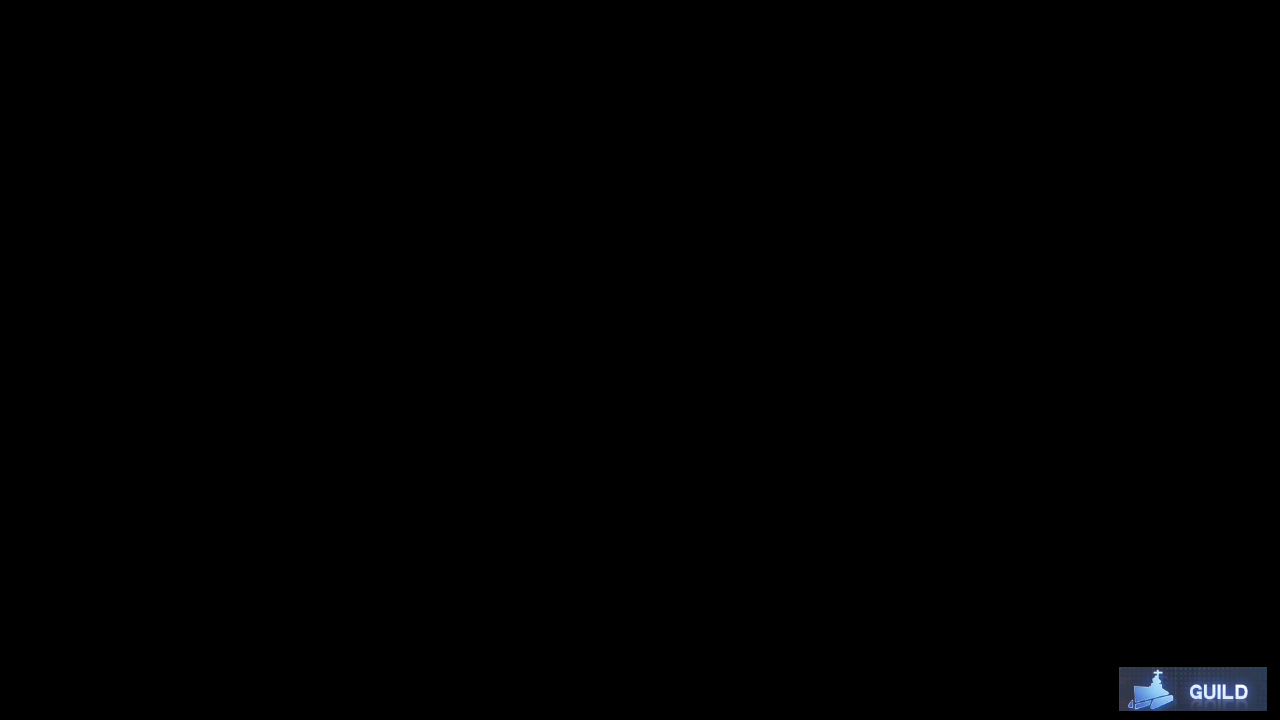
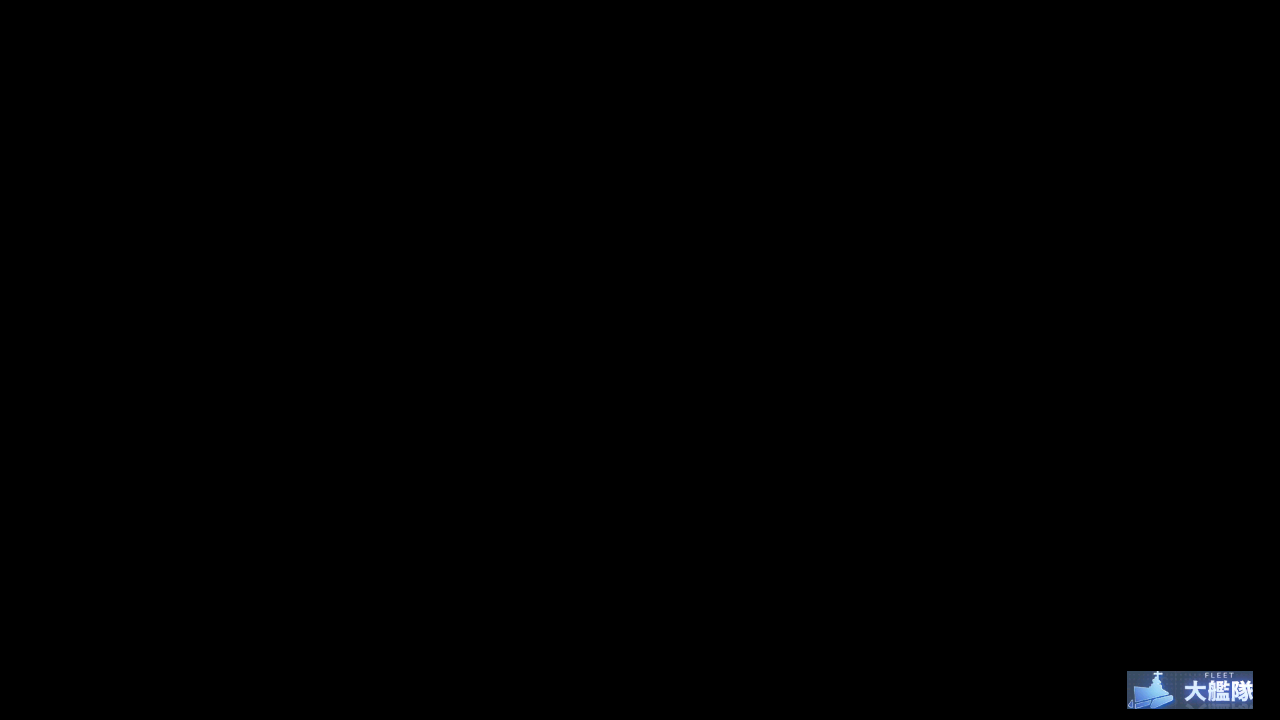
update jp ui assets

Changed region(s): [[0.875, 0.9167, 1.0, 1.0]]

diff --git a/module/ui/assets.py b/module/ui/assets.py
@@ -33,12 +33,12 @@ EVENT_LIST_CHECK = Button(area={'cn': (123, 15, 232, 39), 'en': (123, 15, 223, 3
 EXERCISE_CHECK = Button(area={'cn': (1065, 340, 1204, 382), 'en': (1078, 343, 1190, 382), 'jp': (1063, 339, 1205, 382), 'tw': (1065, 340, 1204, 382)}, color={'cn': (129, 166, 220), 'en': (138, 174, 225), 'jp': (130, 165, 219), 'tw': (129, 166, 220)}, button={'cn': (1065, 340, 1204, 382), 'en': (1078, 343, 1190, 382), 'jp': (1063, 339, 1205, 382), 'tw': (1065, 340, 1204, 382)}, file={'cn': './assets/cn/ui/EXERCISE_CHECK.png', 'en': './assets/en/ui/EXERCISE_CHECK.png', 'jp': './assets/jp/ui/EXERCISE_CHECK.png', 'tw': './assets/tw/ui/EXERCISE_CHECK.png'})
 FLEET_CHECK = Button(area={'cn': (1044, 641, 1243, 702), 'en': (1042, 640, 1244, 703), 'jp': (1042, 606, 1239, 666), 'tw': (1044, 641, 1243, 702)}, color={'cn': (237, 186, 112), 'en': (236, 187, 113), 'jp': (235, 181, 100), 'tw': (237, 186, 112)}, button={'cn': (1044, 641, 1243, 702), 'en': (1042, 640, 1244, 703), 'jp': (1042, 606, 1239, 666), 'tw': (1044, 641, 1243, 702)}, file={'cn': './assets/cn/ui/FLEET_CHECK.png', 'en': './assets/en/ui/FLEET_CHECK.png', 'jp': './assets/jp/ui/FLEET_CHECK.png', 'tw': './assets/tw/ui/FLEET_CHECK.png'})
 GOTO_MAIN = Button(area={'cn': (1230, 17, 1253, 45), 'en': (1230, 17, 1253, 45), 'jp': (1216, 25, 1241, 45), 'tw': (1230, 17, 1253, 45)}, color={'cn': (112, 132, 159), 'en': (112, 132, 159), 'jp': (129, 150, 178), 'tw': (112, 132, 159)}, button={'cn': (1228, 18, 1255, 49), 'en': (1228, 18, 1255, 49), 'jp': (1228, 18, 1255, 49), 'tw': (1228, 18, 1255, 49)}, file={'cn': './assets/cn/ui/GOTO_MAIN.png', 'en': './assets/en/ui/GOTO_MAIN.png', 'jp': './assets/jp/ui/GOTO_MAIN.png', 'tw': './assets/tw/ui/GOTO_MAIN.png'})
-GUILD_CHECK = Button(area={'cn': (121, 15, 199, 39), 'en': (121, 15, 196, 39), 'jp': (121, 15, 196, 39), 'tw': (121, 15, 196, 39)}, color={'cn': (145, 159, 195), 'en': (116, 129, 167), 'jp': (116, 129, 167), 'tw': (116, 129, 167)}, button={'cn': (121, 15, 199, 39), 'en': (121, 15, 196, 39), 'jp': (121, 15, 196, 39), 'tw': (121, 15, 196, 39)}, file={'cn': './assets/cn/ui/GUILD_CHECK.png', 'en': './assets/en/ui/GUILD_CHECK.png', 'jp': './assets/jp/ui/GUILD_CHECK.png', 'tw': './assets/tw/ui/GUILD_CHECK.png'})
+GUILD_CHECK = Button(area={'cn': (121, 15, 199, 39), 'en': (121, 15, 196, 39), 'jp': (120, 14, 201, 41), 'tw': (121, 15, 196, 39)}, color={'cn': (145, 159, 195), 'en': (116, 129, 167), 'jp': (142, 155, 190), 'tw': (116, 129, 167)}, button={'cn': (121, 15, 199, 39), 'en': (121, 15, 196, 39), 'jp': (120, 14, 201, 41), 'tw': (121, 15, 196, 39)}, file={'cn': './assets/cn/ui/GUILD_CHECK.png', 'en': './assets/en/ui/GUILD_CHECK.png', 'jp': './assets/jp/ui/GUILD_CHECK.png', 'tw': './assets/tw/ui/GUILD_CHECK.png'})
 MAIN_GOTO_CAMPAIGN = Button(area={'cn': (1008, 289, 1154, 435), 'en': (1013, 298, 1148, 363), 'jp': (1006, 288, 1155, 436), 'tw': (1008, 289, 1154, 435)}, color={'cn': (216, 171, 99), 'en': (234, 198, 121), 'jp': (216, 171, 100), 'tw': (216, 171, 99)}, button={'cn': (1008, 289, 1154, 435), 'en': (1013, 298, 1148, 363), 'jp': (1006, 288, 1155, 436), 'tw': (1008, 289, 1154, 435)}, file={'cn': './assets/cn/ui/MAIN_GOTO_CAMPAIGN.png', 'en': './assets/en/ui/MAIN_GOTO_CAMPAIGN.png', 'jp': './assets/jp/ui/MAIN_GOTO_CAMPAIGN.png', 'tw': './assets/tw/ui/MAIN_GOTO_CAMPAIGN.png'})
 MAIN_GOTO_DORMMENU = Button(area={'cn': (1008, 289, 1154, 435), 'en': (1013, 298, 1148, 363), 'jp': (1006, 288, 1155, 436), 'tw': (1008, 289, 1154, 435)}, color={'cn': (216, 171, 99), 'en': (234, 198, 121), 'jp': (216, 171, 100), 'tw': (216, 171, 99)}, button={'cn': (488, 667, 638, 712), 'en': (488, 667, 638, 712), 'jp': (491, 670, 635, 710), 'tw': (488, 667, 638, 712)}, file={'cn': './assets/cn/ui/MAIN_GOTO_DORMMENU.png', 'en': './assets/en/ui/MAIN_GOTO_DORMMENU.png', 'jp': './assets/jp/ui/MAIN_GOTO_DORMMENU.png', 'tw': './assets/tw/ui/MAIN_GOTO_DORMMENU.png'})
 MAIN_GOTO_EVENT_LIST = Button(area={'cn': (607, 141, 657, 191), 'en': (607, 141, 657, 191), 'jp': (607, 141, 657, 191), 'tw': (607, 141, 657, 191)}, color={'cn': (216, 187, 187), 'en': (216, 187, 187), 'jp': (216, 187, 187), 'tw': (216, 187, 187)}, button={'cn': (607, 141, 657, 191), 'en': (607, 141, 657, 191), 'jp': (607, 141, 657, 191), 'tw': (607, 141, 657, 191)}, file={'cn': './assets/cn/ui/MAIN_GOTO_EVENT_LIST.png', 'en': './assets/en/ui/MAIN_GOTO_EVENT_LIST.png', 'jp': './assets/jp/ui/MAIN_GOTO_EVENT_LIST.png', 'tw': './assets/tw/ui/MAIN_GOTO_EVENT_LIST.png'})
 MAIN_GOTO_FLEET = Button(area={'cn': (733, 359, 987, 435), 'en': (813, 368, 977, 428), 'jp': (736, 360, 985, 435), 'tw': (733, 359, 987, 435)}, color={'cn': (110, 166, 234), 'en': (137, 187, 243), 'jp': (107, 164, 233), 'tw': (110, 166, 234)}, button={'cn': (733, 359, 987, 435), 'en': (813, 368, 977, 428), 'jp': (736, 360, 985, 435), 'tw': (733, 359, 987, 435)}, file={'cn': './assets/cn/ui/MAIN_GOTO_FLEET.png', 'en': './assets/en/ui/MAIN_GOTO_FLEET.png', 'jp': './assets/jp/ui/MAIN_GOTO_FLEET.png', 'tw': './assets/tw/ui/MAIN_GOTO_FLEET.png'})
-MAIN_GOTO_GUILD = Button(area={'cn': (1116, 666, 1241, 713), 'en': (1119, 667, 1267, 711), 'jp': (1119, 667, 1267, 711), 'tw': (1119, 667, 1267, 711)}, color={'cn': (81, 99, 133), 'en': (72, 89, 123), 'jp': (72, 89, 123), 'tw': (72, 89, 123)}, button={'cn': (1116, 666, 1241, 713), 'en': (1119, 667, 1267, 711), 'jp': (1119, 667, 1267, 711), 'tw': (1119, 667, 1267, 711)}, file={'cn': './assets/cn/ui/MAIN_GOTO_GUILD.png', 'en': './assets/en/ui/MAIN_GOTO_GUILD.png', 'jp': './assets/jp/ui/MAIN_GOTO_GUILD.png', 'tw': './assets/tw/ui/MAIN_GOTO_GUILD.png'})
+MAIN_GOTO_GUILD = Button(area={'cn': (1116, 666, 1241, 713), 'en': (1119, 667, 1267, 711), 'jp': (1127, 671, 1253, 709), 'tw': (1119, 667, 1267, 711)}, color={'cn': (81, 99, 133), 'en': (72, 89, 123), 'jp': (104, 128, 167), 'tw': (72, 89, 123)}, button={'cn': (1116, 666, 1241, 713), 'en': (1119, 667, 1267, 711), 'jp': (1127, 671, 1253, 709), 'tw': (1119, 667, 1267, 711)}, file={'cn': './assets/cn/ui/MAIN_GOTO_GUILD.png', 'en': './assets/en/ui/MAIN_GOTO_GUILD.png', 'jp': './assets/jp/ui/MAIN_GOTO_GUILD.png', 'tw': './assets/tw/ui/MAIN_GOTO_GUILD.png'})
 MAIN_GOTO_MISSION = Button(area={'cn': (816, 666, 932, 713), 'en': (818, 667, 953, 712), 'jp': (805, 665, 955, 710), 'tw': (816, 666, 932, 713)}, color={'cn': (93, 110, 140), 'en': (91, 112, 150), 'jp': (85, 99, 131), 'tw': (93, 110, 140)}, button={'cn': (816, 666, 932, 713), 'en': (818, 667, 953, 712), 'jp': (805, 665, 955, 710), 'tw': (816, 666, 932, 713)}, file={'cn': './assets/cn/ui/MAIN_GOTO_MISSION.png', 'en': './assets/en/ui/MAIN_GOTO_MISSION.png', 'jp': './assets/jp/ui/MAIN_GOTO_MISSION.png', 'tw': './assets/tw/ui/MAIN_GOTO_MISSION.png'})
 MAIN_GOTO_RAID = Button(area={'cn': (1008, 289, 1154, 435), 'en': (1013, 298, 1148, 363), 'jp': (1006, 288, 1155, 436), 'tw': (1008, 289, 1154, 435)}, color={'cn': (216, 171, 99), 'en': (234, 198, 121), 'jp': (216, 171, 100), 'tw': (216, 171, 99)}, button={'cn': (610, 264, 654, 305), 'en': (610, 264, 654, 305), 'jp': (606, 264, 653, 305), 'tw': (610, 264, 654, 305)}, file={'cn': './assets/cn/ui/MAIN_GOTO_RAID.png', 'en': './assets/en/ui/MAIN_GOTO_RAID.png', 'jp': './assets/jp/ui/MAIN_GOTO_RAID.png', 'tw': './assets/tw/ui/MAIN_GOTO_RAID.png'})
 MAIN_GOTO_RESHMENU = Button(area={'cn': (1008, 289, 1154, 435), 'en': (1013, 298, 1148, 363), 'jp': (1006, 288, 1155, 436), 'tw': (1008, 289, 1154, 435)}, color={'cn': (216, 171, 99), 'en': (234, 198, 121), 'jp': (216, 171, 100), 'tw': (216, 171, 99)}, button={'cn': (644, 666, 798, 713), 'en': (645, 665, 796, 713), 'jp': (647, 670, 774, 710), 'tw': (644, 666, 798, 713)}, file={'cn': './assets/cn/ui/MAIN_GOTO_RESHMENU.png', 'en': './assets/en/ui/MAIN_GOTO_RESHMENU.png', 'jp': './assets/jp/ui/MAIN_GOTO_RESHMENU.png', 'tw': './assets/tw/ui/MAIN_GOTO_RESHMENU.png'})
@@ -46,7 +46,7 @@ MAIN_GOTO_REWARD = Button(area={'cn': (11, 139, 30, 189), 'en': (11, 139, 30, 18
 MEOWFFICER_CHECK = Button(area={'cn': (142, 16, 212, 38), 'en': (140, 16, 214, 40), 'jp': (124, 7, 227, 48), 'tw': (142, 16, 212, 38)}, color={'cn': (180, 175, 175), 'en': (225, 222, 224), 'jp': (236, 234, 235), 'tw': (180, 175, 175)}, button={'cn': (142, 16, 212, 38), 'en': (140, 16, 214, 40), 'jp': (124, 7, 227, 48), 'tw': (142, 16, 212, 38)}, file={'cn': './assets/cn/ui/MEOWFFICER_CHECK.png', 'en': './assets/en/ui/MEOWFFICER_CHECK.png', 'jp': './assets/jp/ui/MEOWFFICER_CHECK.png', 'tw': './assets/tw/ui/MEOWFFICER_CHECK.png'})
 MEOWFFICER_GOTO_DORM = Button(area={'cn': (24, 7, 49, 45), 'en': (24, 7, 49, 45), 'jp': (15, 4, 61, 49), 'tw': (24, 7, 49, 45)}, color={'cn': (248, 222, 158), 'en': (248, 222, 158), 'jp': (241, 233, 201), 'tw': (248, 222, 158)}, button={'cn': (24, 7, 49, 45), 'en': (24, 7, 49, 45), 'jp': (15, 4, 61, 49), 'tw': (24, 7, 49, 45)}, file={'cn': './assets/cn/ui/MEOWFFICER_GOTO_DORM.png', 'en': './assets/en/ui/MEOWFFICER_GOTO_DORM.png', 'jp': './assets/jp/ui/MEOWFFICER_GOTO_DORM.png', 'tw': './assets/tw/ui/MEOWFFICER_GOTO_DORM.png'})
 MISSION_CHECK = Button(area={'cn': (120, 15, 173, 40), 'en': (123, 18, 221, 37), 'jp': (120, 14, 173, 40), 'tw': (119, 12, 176, 42)}, color={'cn': (141, 156, 194), 'en': (104, 117, 158), 'jp': (150, 165, 202), 'tw': (125, 139, 178)}, button={'cn': (120, 15, 173, 40), 'en': (123, 18, 221, 37), 'jp': (120, 14, 173, 40), 'tw': (119, 12, 176, 42)}, file={'cn': './assets/cn/ui/MISSION_CHECK.png', 'en': './assets/en/ui/MISSION_CHECK.png', 'jp': './assets/jp/ui/MISSION_CHECK.png', 'tw': './assets/tw/ui/MISSION_CHECK.png'})
-OS_CHECK = Button(area={'cn': (142, 16, 253, 41), 'en': (117, 15, 348, 38), 'jp': (142, 16, 253, 41), 'tw': (142, 16, 253, 41)}, color={'cn': (142, 162, 198), 'en': (108, 125, 164), 'jp': (142, 162, 198), 'tw': (142, 162, 198)}, button={'cn': (142, 16, 253, 41), 'en': (117, 15, 348, 38), 'jp': (142, 16, 253, 41), 'tw': (142, 16, 253, 41)}, file={'cn': './assets/cn/ui/OS_CHECK.png', 'en': './assets/en/ui/OS_CHECK.png', 'jp': './assets/jp/ui/OS_CHECK.png', 'tw': './assets/tw/ui/OS_CHECK.png'})
+OS_CHECK = Button(area={'cn': (142, 16, 253, 41), 'en': (117, 15, 348, 38), 'jp': (109, 16, 289, 42), 'tw': (142, 16, 253, 41)}, color={'cn': (142, 162, 198), 'en': (108, 125, 164), 'jp': (109, 126, 160), 'tw': (142, 162, 198)}, button={'cn': (142, 16, 253, 41), 'en': (117, 15, 348, 38), 'jp': (109, 16, 289, 42), 'tw': (142, 16, 253, 41)}, file={'cn': './assets/cn/ui/OS_CHECK.png', 'en': './assets/en/ui/OS_CHECK.png', 'jp': './assets/jp/ui/OS_CHECK.png', 'tw': './assets/tw/ui/OS_CHECK.png'})
 PLAYER_CHECK = Button(area={'cn': (28, 668, 139, 688), 'en': (11, 649, 157, 705), 'jp': (26, 665, 141, 692), 'tw': (28, 668, 139, 688)}, color={'cn': (237, 204, 127), 'en': (197, 156, 97), 'jp': (228, 187, 117), 'tw': (237, 204, 127)}, button={'cn': (28, 668, 139, 688), 'en': (11, 649, 157, 705), 'jp': (26, 665, 141, 692), 'tw': (28, 668, 139, 688)}, file={'cn': './assets/cn/ui/PLAYER_CHECK.png', 'en': './assets/en/ui/PLAYER_CHECK.png', 'jp': './assets/jp/ui/PLAYER_CHECK.png', 'tw': './assets/tw/ui/PLAYER_CHECK.png'})
 RAID_CHECK = Button(area={'cn': (118, 14, 227, 39), 'en': (115, 9, 262, 42), 'jp': (118, 14, 226, 39), 'tw': (118, 14, 227, 39)}, color={'cn': (143, 161, 202), 'en': (82, 98, 136), 'jp': (149, 167, 206), 'tw': (143, 161, 202)}, button={'cn': (118, 14, 227, 39), 'en': (115, 9, 262, 42), 'jp': (118, 14, 226, 39), 'tw': (118, 14, 227, 39)}, file={'cn': './assets/cn/ui/RAID_CHECK.png', 'en': './assets/en/ui/RAID_CHECK.png', 'jp': './assets/jp/ui/RAID_CHECK.png', 'tw': './assets/tw/ui/RAID_CHECK.png'})
 RESEARCH_CHECK = Button(area={'cn': (118, 15, 170, 39), 'en': (1069, 630, 1167, 642), 'jp': (116, 12, 256, 42), 'tw': (118, 15, 170, 39)}, color={'cn': (165, 179, 215), 'en': (79, 90, 108), 'jp': (129, 145, 185), 'tw': (165, 179, 215)}, button={'cn': (118, 15, 170, 39), 'en': (1069, 630, 1167, 642), 'jp': (116, 12, 256, 42), 'tw': (118, 15, 170, 39)}, file={'cn': './assets/cn/ui/RESEARCH_CHECK.png', 'en': './assets/en/ui/RESEARCH_CHECK.png', 'jp': './assets/jp/ui/RESEARCH_CHECK.png', 'tw': './assets/tw/ui/RESEARCH_CHECK.png'})
